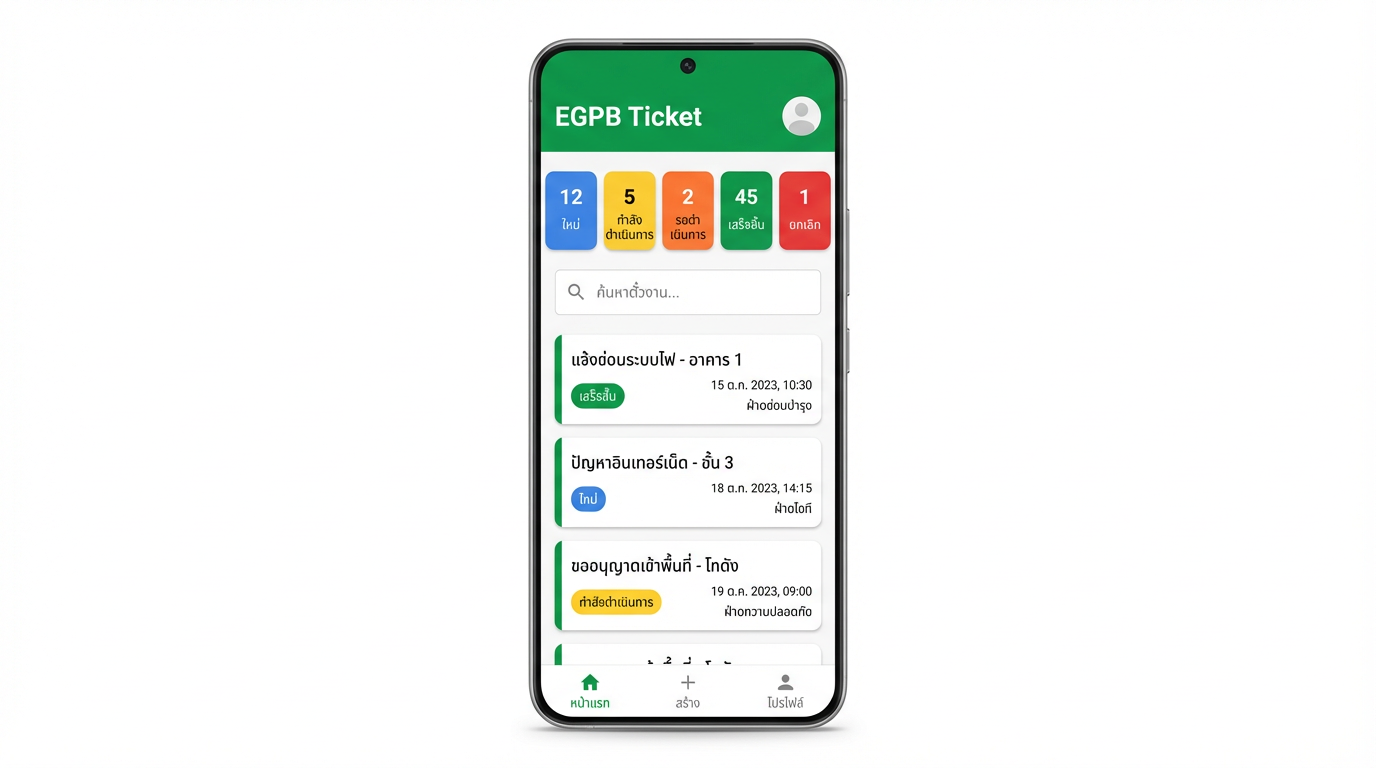
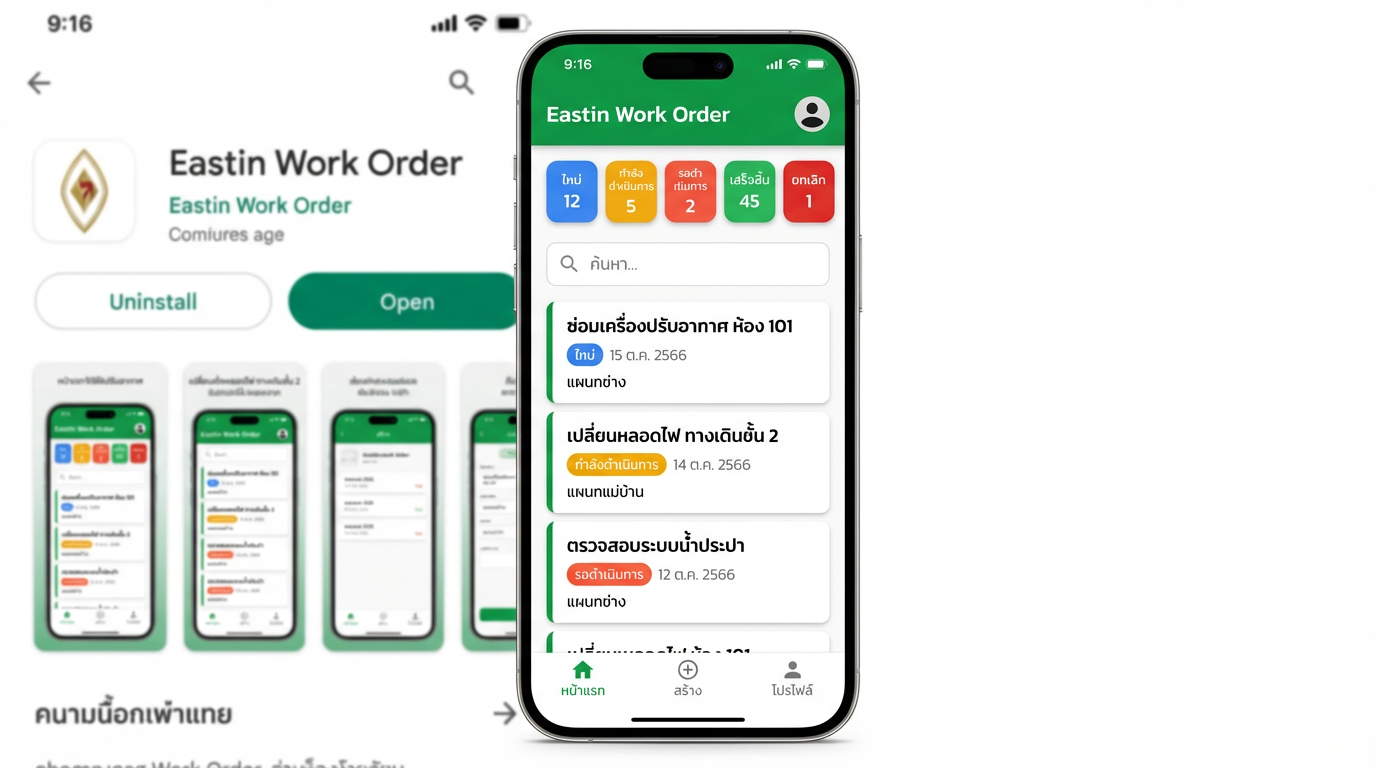
chore: rename app to Eastin Work Order and regenerate store assets
Update all store assets and listing texts from 'EGPB Ticket' to 'Eastin Work Order':
- Regenerated Feature Graphic with new app name
- Regenerated all 4 screenshots with new app name in headers
- Updated store-listing.md, privacy-policy.html, data-safety-answers.md, README.md

Made-with: Cursor

diff --git a/store-assets/texts/privacy-policy.html b/store-assets/texts/privacy-policy.html
@@ -3,7 +3,7 @@
 <head>
   <meta charset="UTF-8" />
   <meta name="viewport" content="width=device-width, initial-scale=1.0" />
-  <title>Privacy Policy — EGPB Ticket</title>
+  <title>Privacy Policy — Eastin Work Order</title>
   <style>
     * { box-sizing: border-box; margin: 0; padding: 0; }
     body {
@@ -76,14 +76,14 @@
 
 <header>
   <h1>🔒 Privacy Policy</h1>
-  <p>EGPB Ticket — Mobile Application</p>
+  <p>Eastin Work Order — Mobile Application</p>
 </header>
 
 <div class="container">
 
   <div class="card">
     <h2>1. บทนำ</h2>
-    <p>แอปพลิเคชัน <strong>EGPB Ticket</strong> ("แอป") พัฒนาและดูแลโดย EGPB เพื่อใช้ภายในองค์กรสำหรับการจัดการคำขอซ่อมบำรุง (Work Order / Ticket) ของทีม IT และวิศวกรรม</p>
+    <p>แอปพลิเคชัน <strong>Eastin Work Order</strong> ("แอป") พัฒนาและดูแลโดย EGPB เพื่อใช้ภายในองค์กรสำหรับการจัดการคำขอซ่อมบำรุง (Work Order / Ticket) ของทีม IT และวิศวกรรม</p>
     <p>นโยบายความเป็นส่วนตัวนี้อธิบายว่าเราเก็บรวบรวม ใช้ และปกป้องข้อมูลของคุณอย่างไรเมื่อคุณใช้แอป</p>
   </div>
 

diff --git a/store-assets/README.md b/store-assets/README.md
@@ -1,4 +1,4 @@
-# EGPB Ticket — Google Play Store Assets
+# Eastin Work Order — Google Play Store Assets
 
 โฟลเดอร์นี้รวบรวมทุกอย่างที่ต้องใช้สำหรับ submit แอปขึ้น Google Play Store
 
@@ -35,7 +35,7 @@ store-assets/
 ### ขั้นตอนที่ 2 — สร้าง App ใน Play Console
 - [ ] ไปที่ [play.google.com/console](https://play.google.com/console)
 - [ ] กด "Create app"
-- [ ] กรอก App name: `EGPB Ticket`
+- [ ] กรอก App name: `Eastin Work Order`
 - [ ] เลือก Default language: Thai (ภาษาไทย)
 - [ ] App type: App
 - [ ] Free or paid: Free
@@ -71,7 +71,7 @@ store-assets/
 
 | รายการ | ค่า |
 |---|---|
-| App Name | EGPB Ticket |
+| App Name | Eastin Work Order |
 | Package Name | com.egpb.ticket |
 | Version | 1.0.0 |
 | Category | Business |

diff --git a/store-assets/texts/data-safety-answers.md b/store-assets/texts/data-safety-answers.md
@@ -1,4 +1,4 @@
-# Data Safety Form — EGPB Ticket
+# Data Safety Form — Eastin Work Order
 > กรอกใน Google Play Console > App content > Data safety
 
 ---
